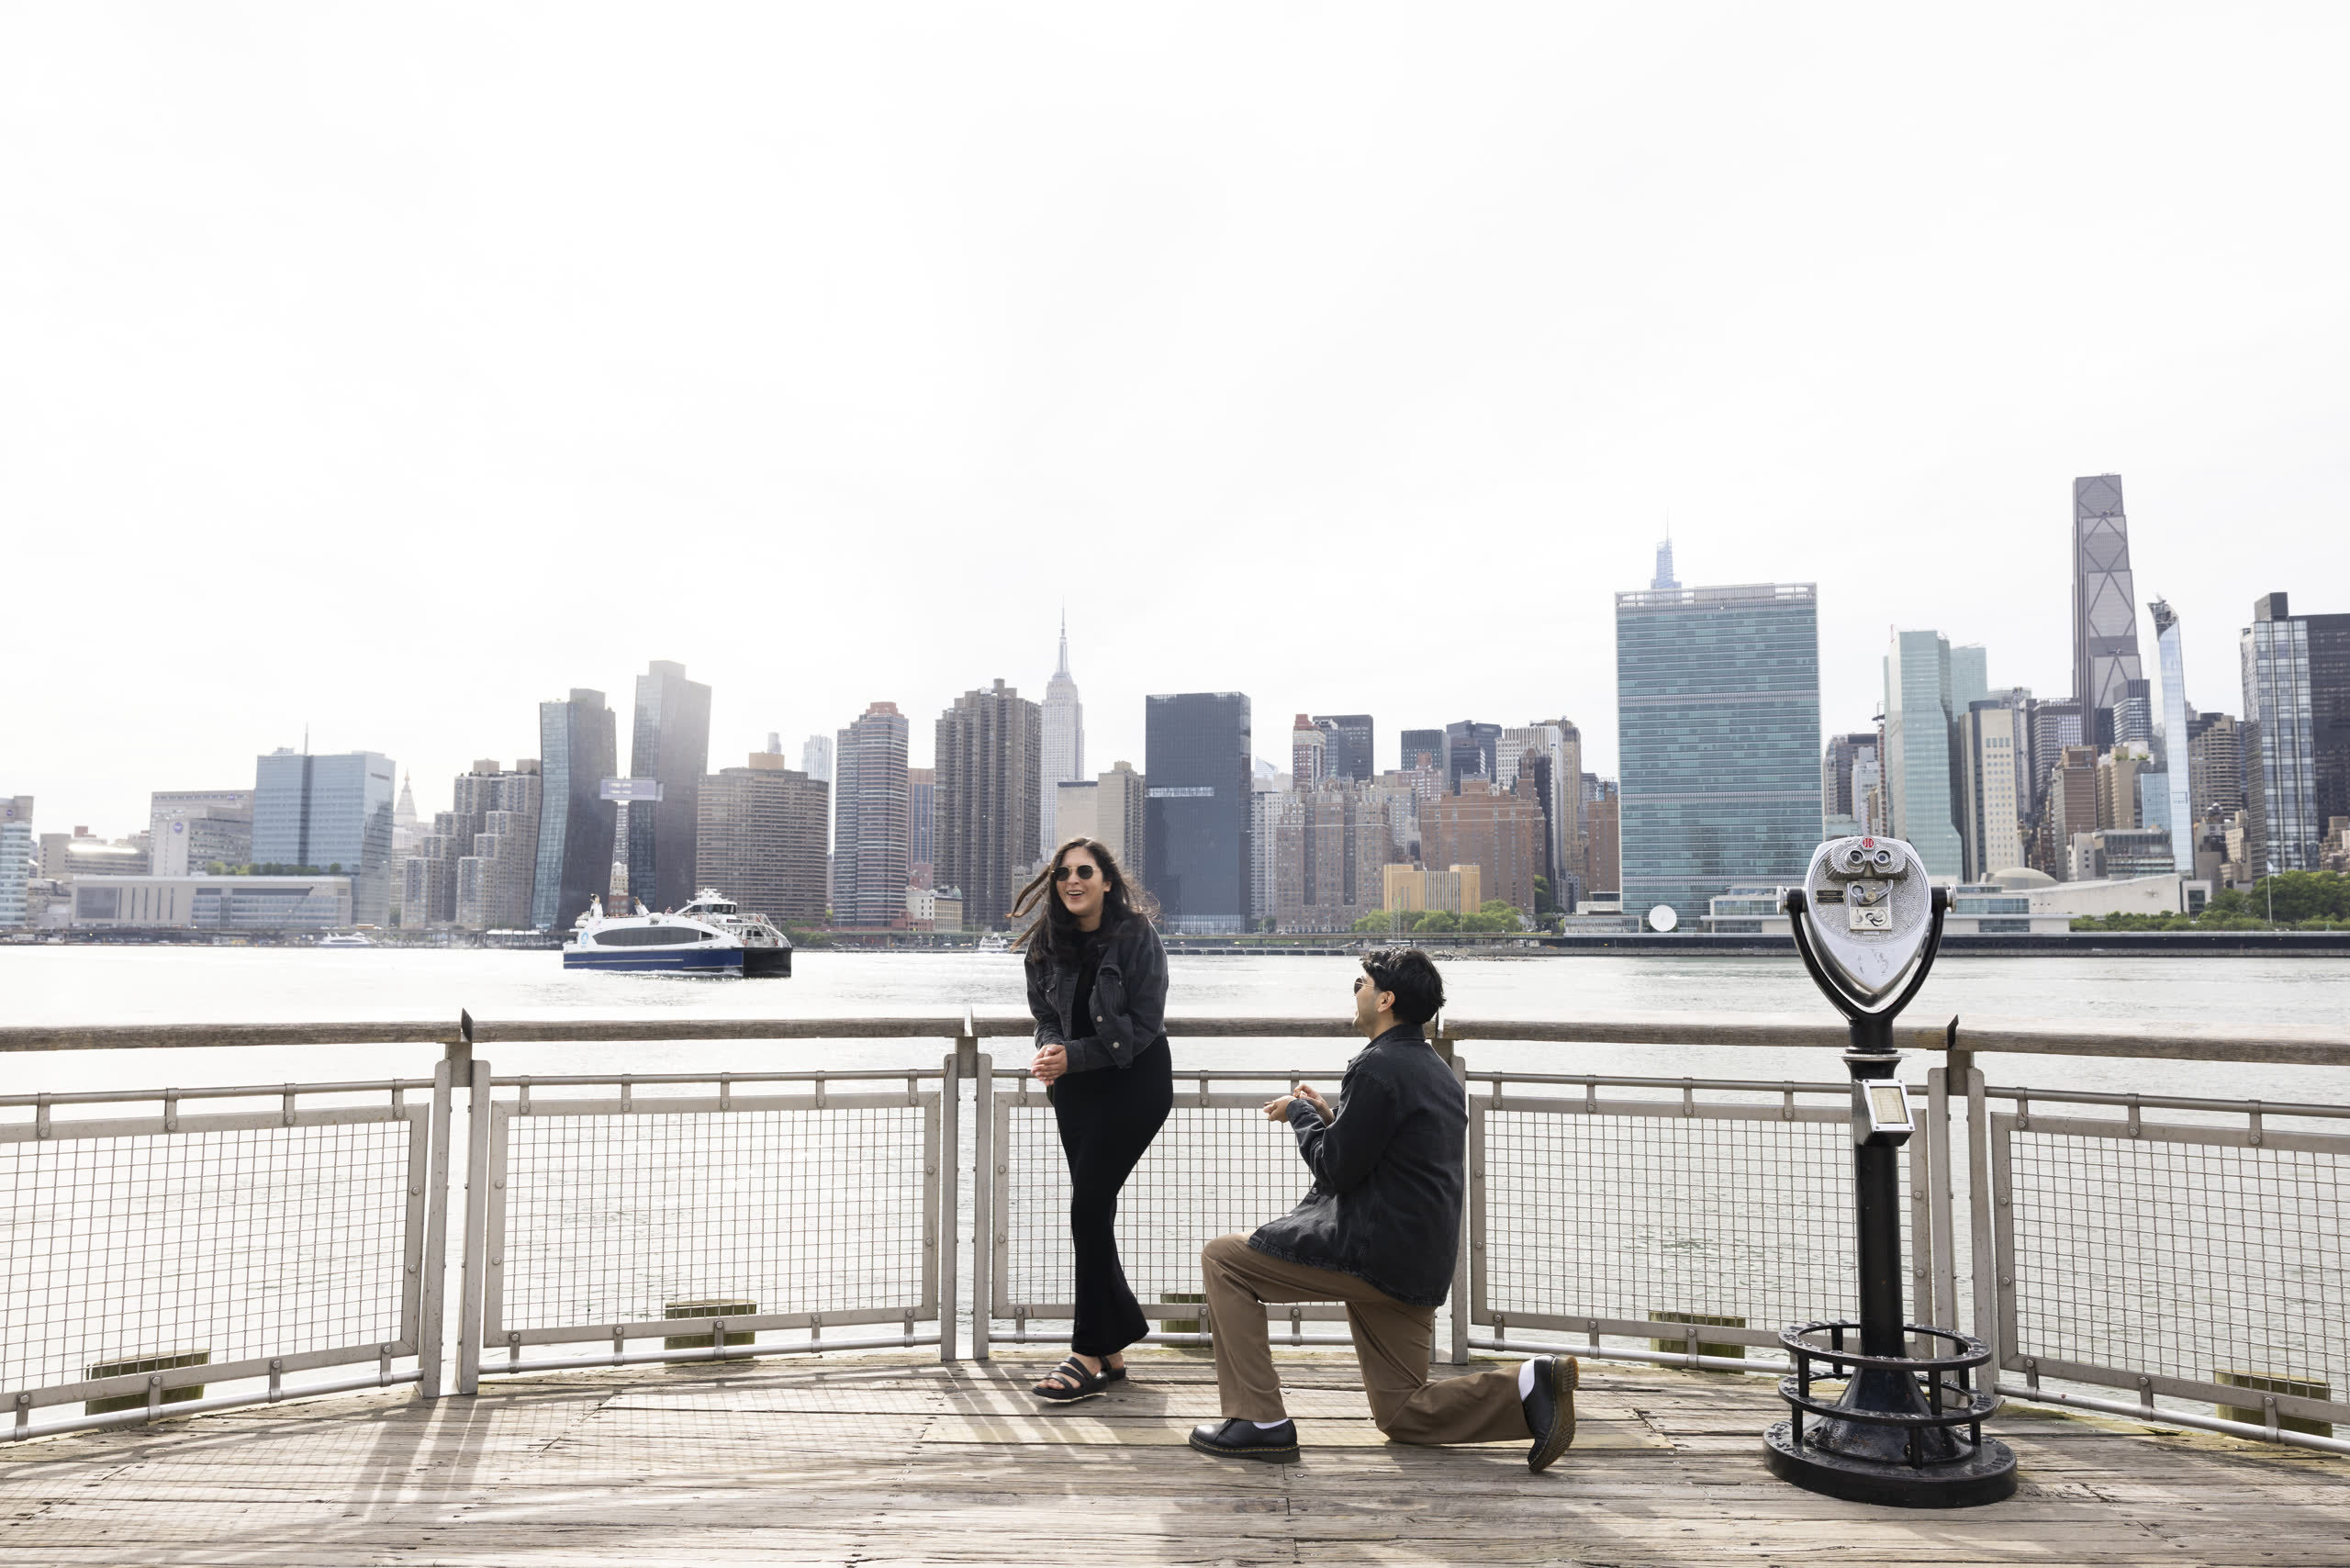
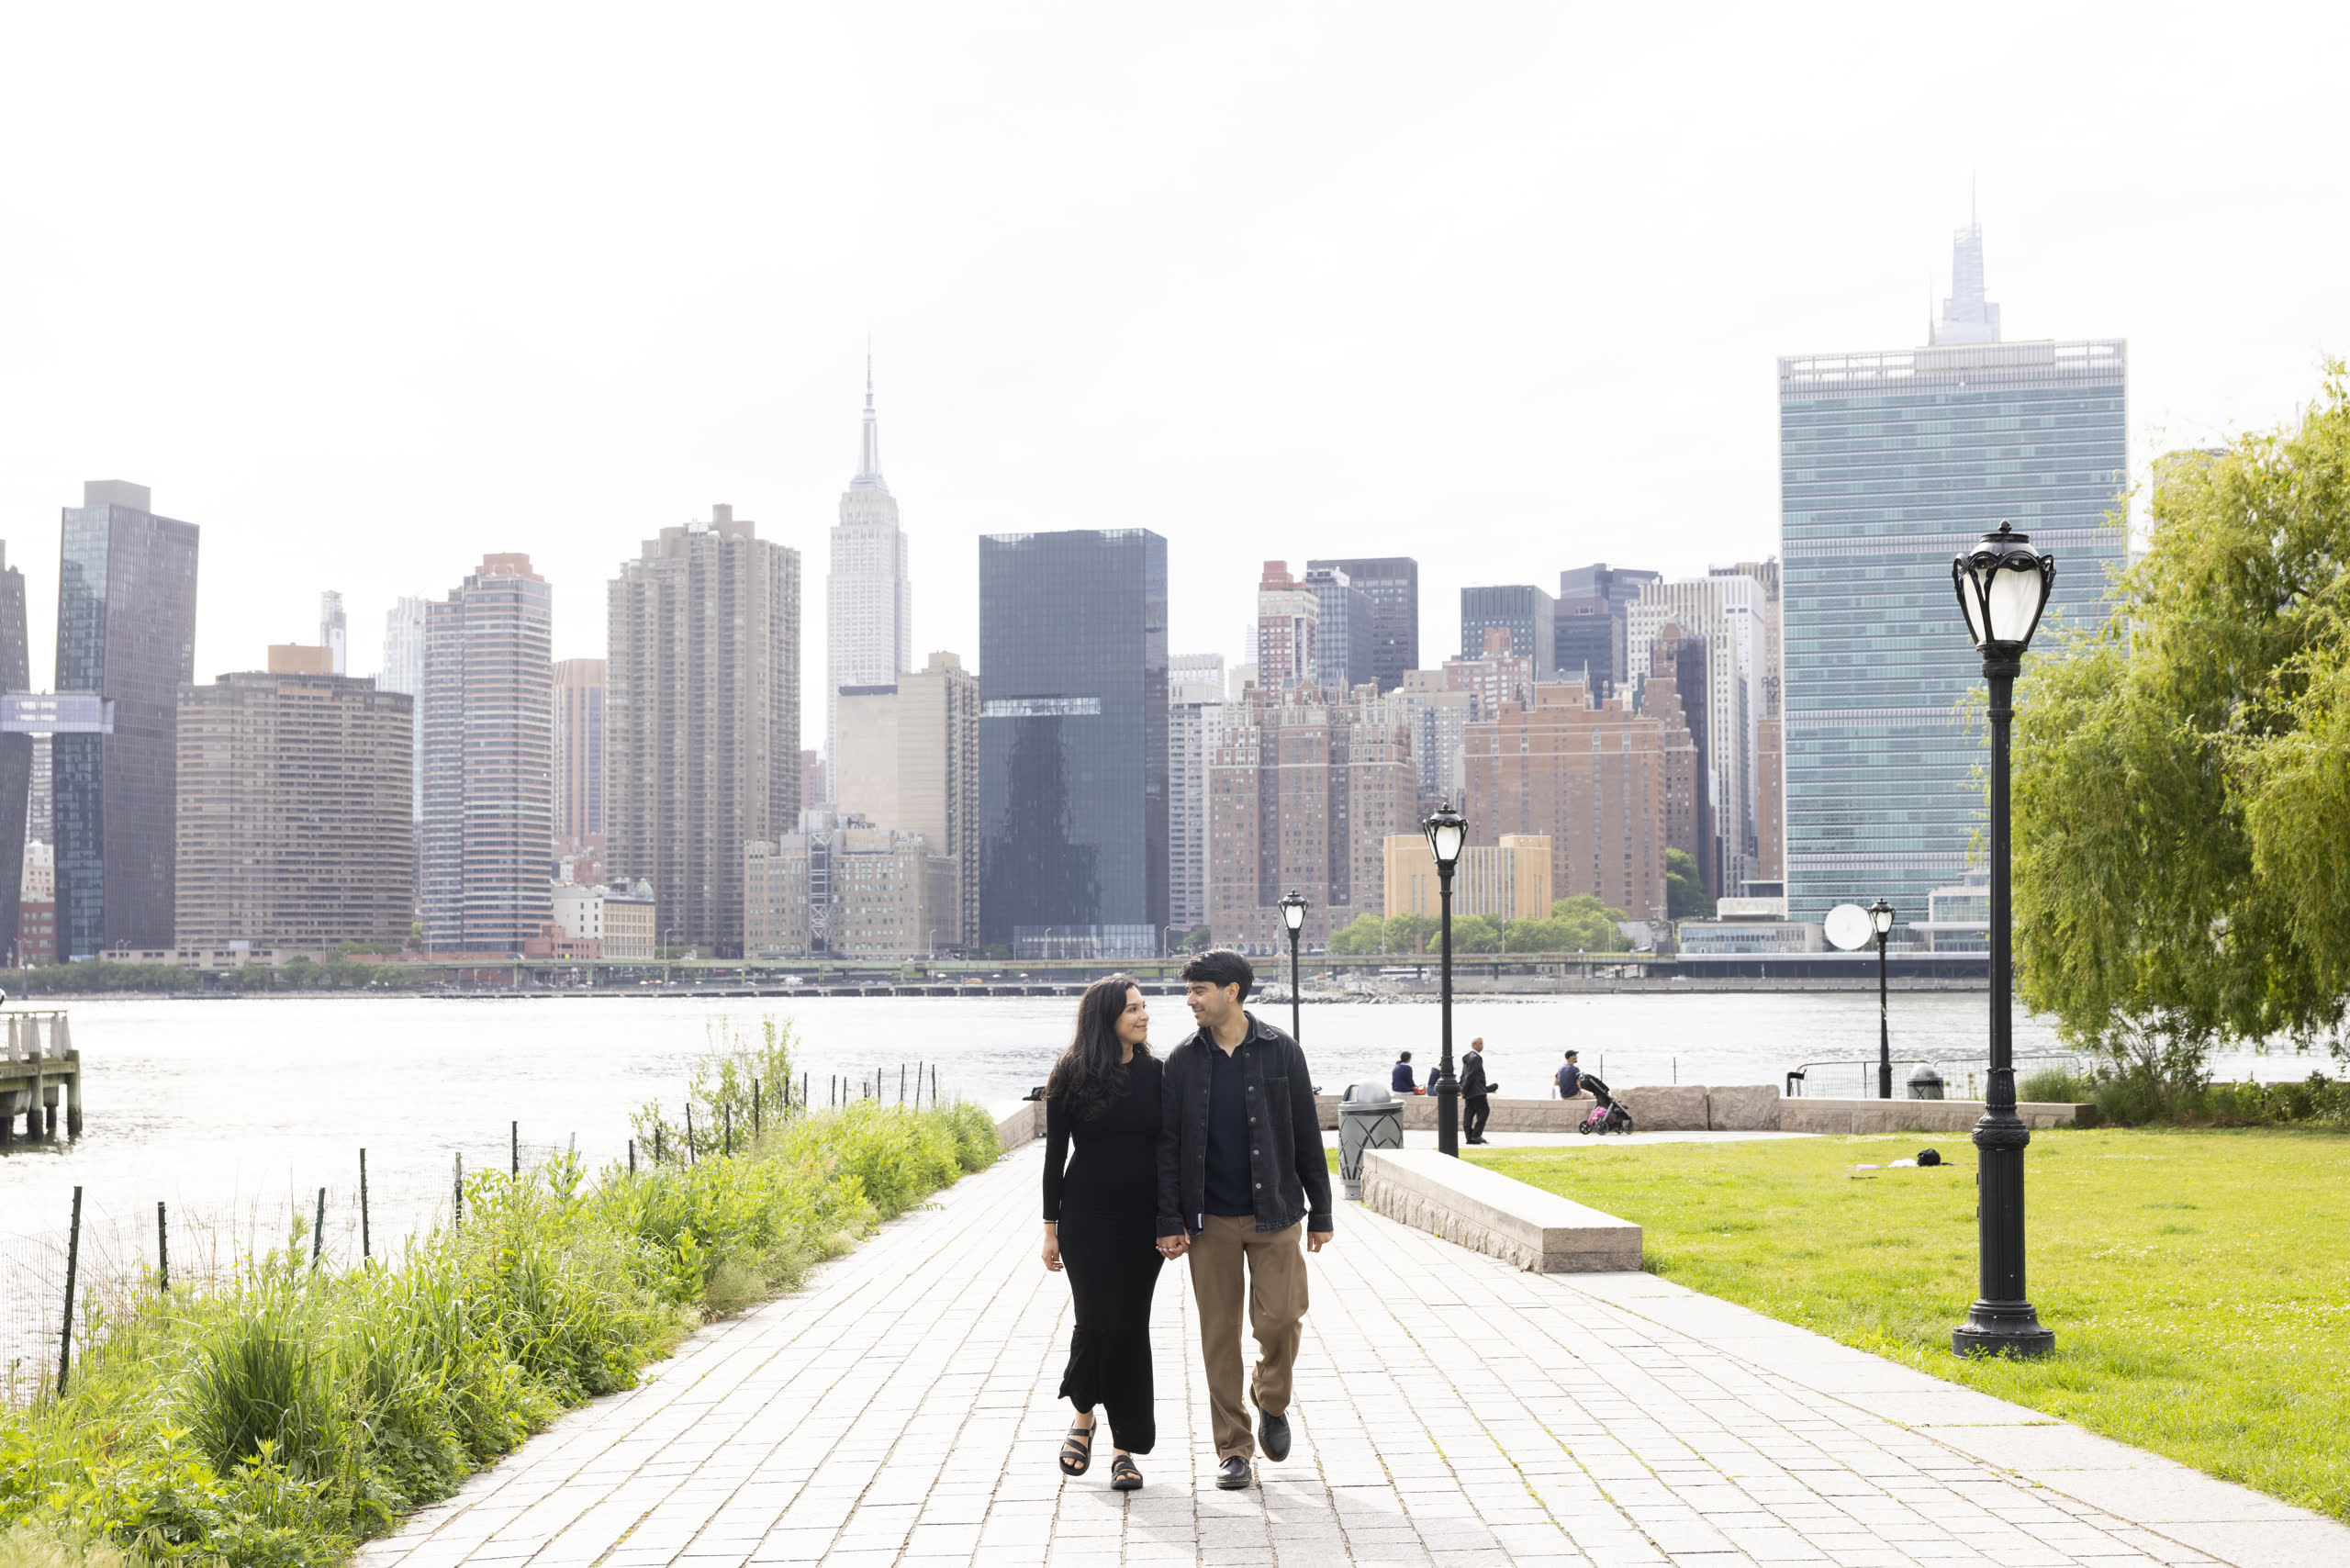
Use walking/skyline photo as hero, set slideshow to 3s

diff --git a/gallery.js b/gallery.js
@@ -13,7 +13,7 @@ const PHOTOS = [
 ];
 
 // How long each photo stays before advancing (milliseconds).
-const INTERVAL_MS = 4500;
+const INTERVAL_MS = 3000;
 
 const slidesEl = document.getElementById("slides");
 const dotsEl = document.getElementById("dots");